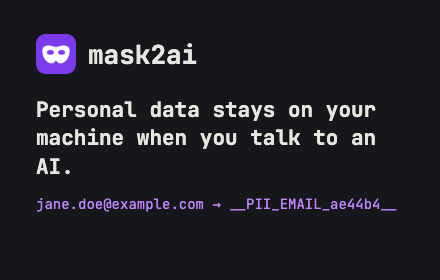
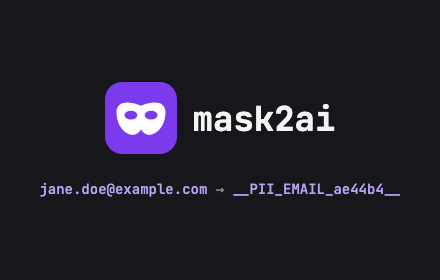
feat: Chrome Web Store submission fixes and 0.5.2

diff --git a/demo/prove.js b/demo/prove.js
@@ -85,8 +85,9 @@ server.listen(0, '127.0.0.1', async () => {
   for (const s of leaked) for (const m of wire.matchAll(new RegExp('(?<![A-Za-z])' + escape(s) + '(?![A-Za-z])', 'gu'))) console.log(`   context: …${wire.slice(Math.max(0, m.index - 80), m.index + s.length + 40).replace(/\s+/g, ' ')}…`);
   if (leaked.length || !placeholders.size) process.exit(1);
 
-  const vision = path.join(env.CLAUDE_PLUGIN_DATA || path.join(require('os').homedir(), '.claude', 'mask2ai'), 'vision');
+  const vision = path.join(require('os').tmpdir(), 'mask2ai-proof-vision');
   if (process.platform === 'darwin') {
+    require('child_process').execFileSync('swiftc', ['-O', '-o', vision, path.join(__dirname, '..', 'hooks', 'vision.swift')]);
     console.log('\n3. a PDF containing personal data');
     const c = await requestsOf(() => claude(env, 'Read demo/customer.pdf'));
     if (c.code !== 0) fail(`claude exited ${c.code}\n${c.out}`);

diff --git a/store/listing.md b/store/listing.md
@@ -21,11 +21,17 @@ Before a message leaves claude.ai or chatgpt.com, the extension finds email addr
 - The placeholder map lives in the tab and disappears when you close it.
 - Open source, MIT: https://github.com/serkankorkut/mask2ai
 
+Not affiliated with OpenAI or Anthropic.
+
 Detection is pattern based. A bare name in free text with no title, label or matching email nearby is not detected. Full list of what is and is not caught: https://mask2ai.com/docs/
+
+## Single purpose
+
+Replace personal data in messages sent to claude.ai and ChatGPT with placeholders, and restore the real values on screen.
 
 ## Category
 
-Productivity › Workflow & Planning (or Privacy & Security if offered)
+Make Chrome Yours › Privacy & Security
 
 ## Language
 
@@ -37,15 +43,25 @@ The extension declares no permissions. It uses content scripts on https://claude
 
 ## Privacy practices (data usage form)
 
-- Does not collect or transmit user data. All processing happens in the page; the placeholder map is kept in sessionStorage and never leaves the browser.
+Google requires disclosure even when data is only processed locally, so tick these data types:
+
+- Personally identifiable information (names, emails, phone, national ID numbers, addresses)
+- Financial and payment information (card numbers, IBANs)
+- Personal communications (the chat message being sent)
+- Website content (the rendered chat page and uploaded files)
+
+Justification for each: processed only inside the open tab to find and replace personal data; never transmitted, stored outside the tab's sessionStorage, or shared.
+
+Tick all three certifications: not sold to third parties, not used for purposes unrelated to the single purpose, not used for creditworthiness or lending.
+
 - No remote code. All scripts are packaged.
 - Privacy policy URL: https://mask2ai.com/privacy/
 
 ## Assets to upload
 
-- Icon 128×128: `extension/icons/icon128.png`
+- Icon 128×128: `store/icon-128.png` (96px artwork with 16px transparent padding, as the store asks)
 - Screenshots 1280×800: `store/shot-1-wire.png` (what ChatGPT received), `store/shot-2-restored.png` (what you see). Rendered from frames of `demo/chatgpt-web.gif`; regenerate when the recording changes
-- Small promo tile 440×280: `store/promo-440x280.png`
+- Small promo tile 440×280: `store/promo-440x280.png` (logo and one placeholder example, no headline)
 
 ## Package
 
@@ -59,6 +75,7 @@ Put the 32-letter item ID from the store URL into `store/id.txt` (no newline) an
 
 1. Register at https://chrome.google.com/webstore/devconsole (one-time developer fee).
 2. New item, upload the zip.
-3. Fill the store listing from this file, upload the icon and at least one screenshot.
+3. Fill the store listing from this file, upload the icon and at least one screenshot. Homepage and support URL: https://mask2ai.com
 4. Privacy tab: answer as above, set the privacy policy URL.
-5. Submit for review. First review usually takes a few days. Content scripts on two hosts and no permissions keeps it in the fast lane.
+5. Account tab: verify the contact email and declare trader or non-trader status (EU).
+6. Submit for review. First review usually takes a few days. Content scripts on three hosts and no permissions keep it in the fast lane.

diff --git a/AGENTS.md b/AGENTS.md
@@ -12,10 +12,9 @@ Read `HANDOFF.md` first; it has the architecture, the verification commands and 
 - GitHub rulesets (added 2026-09-30 on mask2ai and mask2ai.com): `main` blocks force pushes and deletion; `v*` tags cannot be deleted, moved or overwritten. Normal pushes and new tags work. A history rewrite or re-tag needs the owner to disable the ruleset first in Settings > Rules.
 - `main` also requires a pull request approved by the code owner (`.github/CODEOWNERS` names @serkankorkut) for everyone except the owner, who can push directly. Collaborators cannot merge each other's pull requests without the owner's approval.
 - Only the owner (admin role) can create `v*` tags, so only the owner can cut a release.
-
 - Verify before claiming: `npm test`, `node demo/prove.js`, `node demo/verify-web.js`. Do not list an environment or a file type the checks do not cover.
 - No code comments unless unavoidable. No trailing whitespace. No newline at end of file.
 - Commit messages: `type: Capitalised summary`, no attribution lines.
-- Demo data is Jane Doe and John Doe with repetitive numbers.
+- Demo data is the Doe family from `demo/customers.csv`, with repetitive numbers.
 - Keep `manifest.json`, `.claude-plugin/plugin.json` and `package.json` at the same version; the site reads it.
 - After the extension is on the Chrome Web Store, write its item ID to `store/id.txt`; the site reads it for the store badges.

diff --git a/README.md b/README.md
@@ -8,7 +8,7 @@
 [![License](https://img.shields.io/github/license/serkankorkut/mask2ai?style=flat-square)](LICENSE)
 [![Stars](https://img.shields.io/github/stars/serkankorkut/mask2ai?style=flat-square)](https://github.com/serkankorkut/mask2ai/stargazers)
 
-Protects your privacy when you use AI. mask2ai keeps personal data on your machine when you work with an AI assistant. It detects names, contact details, identity numbers, payment details and addresses in what you send, replaces them with placeholders before anything leaves your device, and shows you the real values back.
+Protects your privacy when you use AI. mask2ai keeps personal data on your machine when you work with an AI assistant. It detects names, contact details, identity numbers, payment details and addresses in what you send, replaces them with placeholders before anything leaves your device, and puts the real values back on your screen.
 
 Website and docs: [mask2ai.com](https://mask2ai.com)
 

diff --git a/HANDOFF.md b/HANDOFF.md
@@ -20,7 +20,7 @@ Placeholders are `__PII_<TYPE>_<6 hex of cyrb53(value)>__`, content-addressed so
 | github.com/serkankorkut/mask2ai (public) | `~/repo/mask2ai` | plugin, extension, core, tests, demos, this file |
 | github.com/serkankorkut/mask2ai.com (public) | `~/repo/mask2ai.com` | marketing site, Cloudflare Workers assets, `public/` |
 
-Current version 0.5.1 in `manifest.json`, `.claude-plugin/plugin.json`, `package.json`. Keep the three in sync.
+Current version 0.5.2 in `manifest.json`, `.claude-plugin/plugin.json`, `package.json`. Keep the three in sync.
 
 ## Verify before claiming anything works
 
